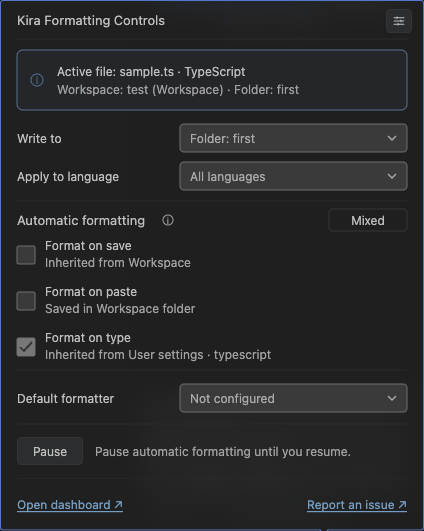
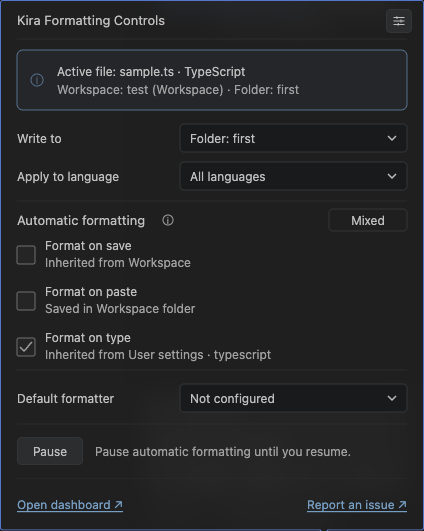
fix: restore outlined readonly controls

diff --git a/shared/status-artwork.ts b/shared/status-artwork.ts
@@ -29,10 +29,7 @@ const palettes = {
     input: "#181a1b",
     border: "#333536",
     button: "#2a2d2e",
-    disabledText: "#aaaaaa",
-    checkbox: "#3a3a3a",
-    checkboxChecked: "#777777",
-    checkboxTick: "#353535",
+    checkbox: "#252526",
     checkboxBorder: "#707070",
   },
   light: {
@@ -45,10 +42,7 @@ const palettes = {
     input: "#ffffff",
     border: "#929292",
     button: "#e6e6e6",
-    disabledText: "#616161",
-    checkbox: "#eeeeee",
-    checkboxChecked: "#b8b8b8",
-    checkboxTick: "#555555",
+    checkbox: "#ffffff",
     checkboxBorder: "#929292",
   },
   contrast: {
@@ -61,10 +55,7 @@ const palettes = {
     input: "#000000",
     border: "#ffffff",
     button: "#000000",
-    disabledText: "#ffffff",
     checkbox: "#000000",
-    checkboxChecked: "#000000",
-    checkboxTick: "#ffffff",
     checkboxBorder: "#ffffff",
   },
   "contrast-light": {
@@ -77,10 +68,7 @@ const palettes = {
     input: "#ffffff",
     border: "#000000",
     button: "#ffffff",
-    disabledText: "#000000",
     checkbox: "#ffffff",
-    checkboxChecked: "#ffffff",
-    checkboxTick: "#000000",
     checkboxBorder: "#000000",
   },
 } as const;
@@ -142,9 +130,9 @@ export function statusArtwork(
   ) =>
     `<rect x="${x}" y="${y}" width="${w}" height="${h}" rx="${r}" stroke="${stroke}" fill="${fill}"/>`;
   const dropdown = (y: number, value: string) =>
-    rect(168, y, 227, 28, p.checkboxBorder, p.checkbox) +
-    centeredText(178, y + 14, shortened(value, 33), 12, p.disabledText) +
-    `<path d="M376 ${y + 12}l4 4 4-4" fill="none" stroke="${p.disabledText}" stroke-width="1.2"/>`;
+    rect(168, y, 227, 28) +
+    centeredText(178, y + 14, shortened(value, 33)) +
+    `<path d="M376 ${y + 12}l4 4 4-4" fill="none" stroke="${p.fg}" stroke-width="1.2"/>`;
   const svg = (height: number, contents: string, width = 400) =>
     `<svg xmlns="http://www.w3.org/2000/svg" width="${width}" height="${height}" viewBox="0 0 ${width} ${height}"><g font-family="-apple-system, BlinkMacSystemFont, Segoe WPC, Segoe UI, system-ui, Ubuntu, Droid Sans, sans-serif" font-weight="400">${contents}</g></svg>`;
   const state = context.flags.every(Boolean)
@@ -181,17 +169,9 @@ export function statusArtwork(
     .map((label, i) => {
       const y = i * 46;
       return (
-        rect(
-          5,
-          y + 9,
-          18,
-          18,
-          p.checkboxBorder,
-          context.flags[i] ? p.checkboxChecked : p.checkbox,
-          2,
-        ) +
+        rect(5, y + 9, 18, 18, p.checkboxBorder, p.checkbox, 2) +
         (context.flags[i]
-          ? `<path d="M8 ${y + 18}l4 4 8-9" stroke="${p.checkboxTick}" stroke-width="2" fill="none"/>`
+          ? `<path d="M8 ${y + 18}l4 4 8-9" stroke="${p.muted}" stroke-width="1.4" fill="none"/>`
           : "") +
         text(33, y + 13, `Format on ${label}`) +
         text(33, y + 30, shortened(sourceNotes[i] ?? "", 59), 12, p.muted)
@@ -213,7 +193,7 @@ export function statusArtwork(
     settings: image(
       24,
       rect(0.5, 0.5, 25, 23, p.border, p.button) +
-        `<g transform="translate(7.72 7.38) scale(.66)" fill="none" stroke="${p.fg}" stroke-width="1.5"><path d="M0 2h16M0 7h16M0 12h16M5 0v4M11 5v4M7 10v4"/></g>`,
+        `<g transform="translate(7.456 7.149) scale(.693)" fill="none" stroke="${p.fg}" stroke-width="1.5"><path d="M0 2h16M0 7h16M0 12h16M5 0v4M11 5v4M7 10v4"/></g>`,
       "Open VS Code Settings",
       26,
     ),

diff --git a/test/unit/status-hover.ts b/test/unit/status-hover.ts
@@ -37,7 +37,10 @@ test("reference artwork has live values, accessible descriptions and read-only f
     art.formatting.alt,
     /Format on paste: Enabled.*Inherited from User settings/,
   );
-  assert.equal([...art.formatting.svg.matchAll(/stroke-width="2"/g)].length, 1);
+  assert.equal(
+    [...art.formatting.svg.matchAll(/stroke-width="1.4"/g)].length,
+    1,
+  );
   const html = statusHover(context);
   assert.ok(!/<input|<select|<button|<script|<style/.test(html));
   const actions = [...html.matchAll(/statusControl\?([^"]*)/g)].map((match) =>

diff --git a/docs/status-controls.md b/docs/status-controls.md
@@ -2,7 +2,7 @@
 
 Hover and click open the same anchored card above the Formatting status-bar item. Click focuses and pins it; Escape dismisses it. Enter on the focused status item opens it. A normal status click creates neither a docked Panel view nor an editor tab.
 
-The header shows **Kira Formatting Controls** with a 10.6px three-slider Settings icon inside a fixed 26px by 24px box. Version details remain in the Extensions listing. The app icon appears in that listing; the card has no app logo. The package ID remains `rajudhami.formatting-controls`.
+The header shows **Kira Formatting Controls** with an 11.1px three-slider Settings icon inside a fixed 26px by 24px box. Version details remain in the Extensions listing. The app icon appears in that listing; the card has no app logo. The package ID remains `rajudhami.formatting-controls`.
 
 ![Anchored formatting controls](assets/status-card-dark.png)
 
@@ -27,11 +27,11 @@ The existing native JSON preview, confirmation and durable recovery workflow are
 
 ## Rendering and compatibility
 
-Read-only dropdowns use the disabled checkbox surface with muted values and arrows. Footer links have text-sized hit areas with approximately 4–5px padding. The gap between them is unlinked artwork, so it neither shows an action cursor nor opens the dashboard. Separate image alignment preserves the footer's vertical spacing.
+Read-only dropdowns use standard outlined fields with normal text and arrows. Checkboxes use neutral outlines and ticks rather than a disabled gray fill. Footer links have text-sized hit areas with approximately 4–5px padding. The gap between them is unlinked artwork, so it neither shows an action cursor nor opens the dashboard. Separate image alignment preserves the footer's vertical spacing.
 
 VS Code's public `StatusBarItem.tooltip` accepts Markdown, images and command links; arbitrary form styling is sanitized. Locally generated inert SVG images preserve the approved layout, with native links for navigation and help. No scripts, external images, rendering network calls or rendering files are used.
 
-The 400px content width follows the approved reference. The title and section heading use 13px regular text and body/control text 12px. Read-only fields have 28px outlines and the fixed status badge has a 22px outline. Setting rows use a 46px rhythm with 10px between each disabled-style checkbox and its text. Checked boxes have a muted fill and dark tick; unchecked boxes have a darker fill. High-contrast themes retain distinct ticks and outlines. The file/workspace block and context info icon are vertically centered, with a 14px gap between the icon and text. The formatting heading, info glyph and fixed-width status badge share one hover-only image. The filled Pause/Resume button retains fixed dimensions across both states. Underlined footer artwork shares the same content width and aligns to the card edges independently of VS Code's native table-column sizing.
+The 400px content width follows the approved reference. The title and section heading use 13px regular text and body/control text 12px. Read-only fields have 28px outlines and the fixed status badge has a 22px outline. Setting rows use a 46px rhythm with 10px between each checkbox and its text. Checked boxes show an outlined tick; unchecked boxes retain the same neutral surface. High-contrast themes retain distinct ticks and outlines. The file/workspace block and context info icon are vertically centered, with a 14px gap between the icon and text. The formatting heading, info glyph and fixed-width status badge share one hover-only image. The badge explanation remains discoverable through the visible info icon. The filled Pause/Resume button retains fixed dimensions across both states. Underlined footer artwork shares the same content width and aligns to the card edges independently of VS Code's native table-column sizing.
 
 Transparent artwork reveals the native hover surface. Dark, light, high-contrast and high-contrast-light palettes follow the theme kind; arbitrary custom theme colors/fonts are not available inside the image renderer. Native links follow the editor's own hover/focus styling. The public Markdown tooltip cannot reproduce Copilot's custom grey icon-button hover fill or enforce a custom hover underline. This limitation does not change layout or actions.
 

diff --git a/CHANGELOG.md b/CHANGELOG.md
@@ -2,6 +2,8 @@
 
 ## 0.5.0 — Unreleased
 
+Restored standard outlined checkbox and dropdown artwork, removing the disabled gray treatment while retaining read-only behavior. Increased the Settings glyph by another 5% to 11.1px and retained the formatting status info icon.
+
 Limited both footer click targets to their labels plus a small padding and made the blank gutter non-interactive. Gave read-only dropdowns muted disabled styling and enlarged the Settings glyph by a further 10% to 10.6px.
 
 Reduced Pause/Resume padding to match Default formatter, with approximately 13px above and below the button rather than 18px. Retained centered footer text after adjusting the separator placement.
